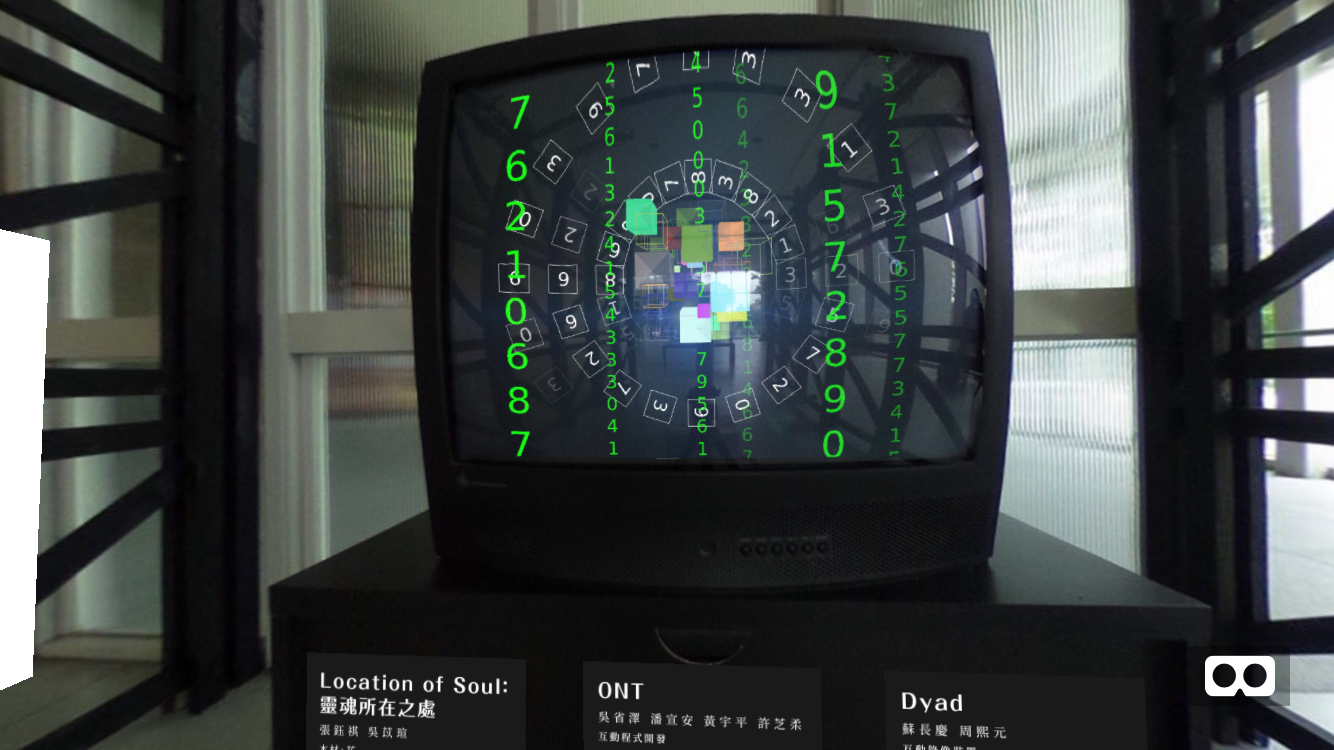
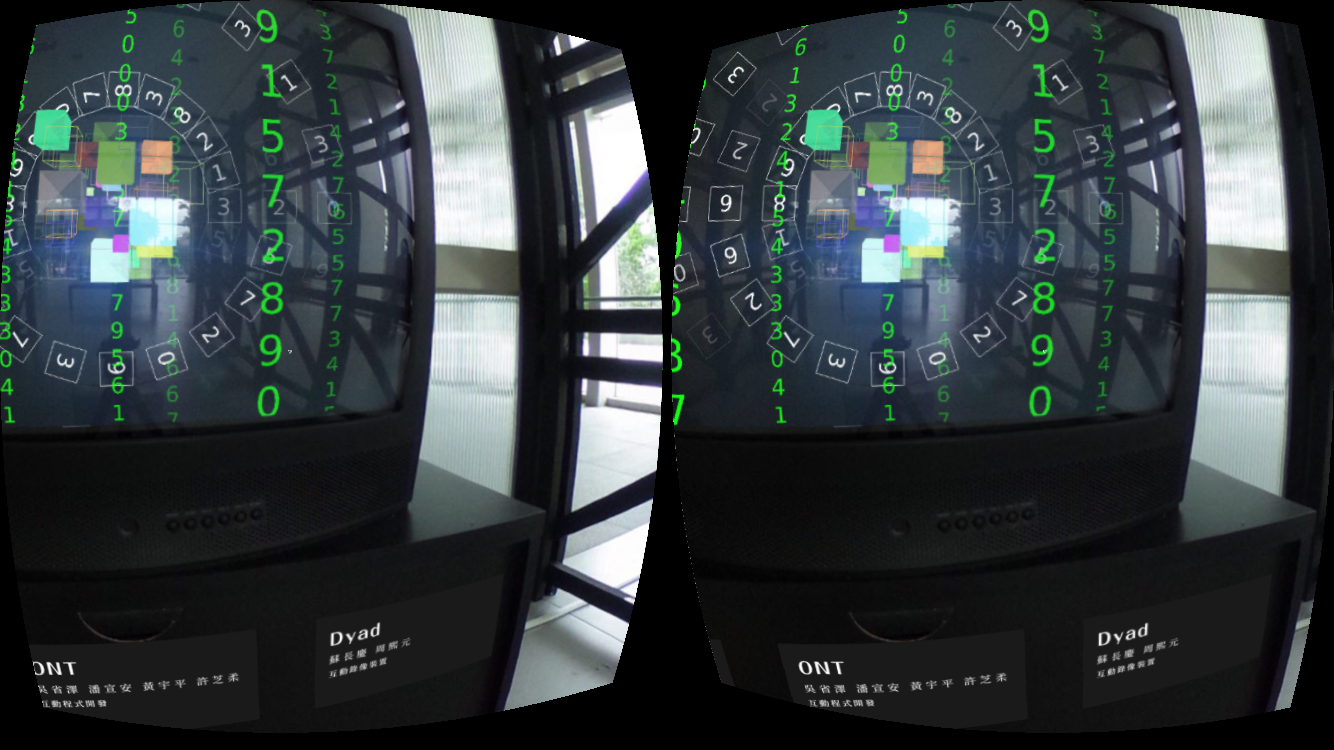
Edit project

diff --git a/_projects/speculative-ntu.md b/_projects/speculative-ntu.md
@@ -11,21 +11,40 @@ permalink: /projects/speculative-ntu/
 ---
 
 {% include image.html
-           img="home.png"
-           caption="展場虛構地圖" %}
-
-> Homo sapiens 現代智人，人屬，人科  
-> Technology 技術，科技
+           img="map.png"
+           caption="An imaginary map of the campus that were divided into three worlds, where people held different belief and ideal toward technology." %}
 
 自人類第一次拿起石器，兩百五十萬年間，人類的價值與工具內外交融，成為目前所熟知的型態。然而，對於「價值」的諸多質疑已使得現今秩序崩壞。面對未來，我們還能不能有所期待？
 
 本次《形》策展以此作為起點，想像人性與科技的三種走向 — 退化 、 平衡 、 超越 。劃分台大校園為三個極端的虛構聚落，作為科技變形的實驗場。退化的〈懼形〉中，科技成了世界的支配者，人類淪落為次等物種；平衡的〈制形〉中，社會運作受到演算法監控，追求最佳化的理想；超越的〈探形〉中，藉由科技擴增感官，分化出新的認知方式。《形》策展帶領觀者經歷三個價值場域，放下原有的信念，形塑另類的科技理想。
 
-I participated in the student tech art exhibition curation at the annual Art Festival of National Taiwan University. People in Taiwan constantly struggle with their cultural identity, thus we decided the exhibition theme not to be about how technology changes the society, but about how people holding different values and belief would transform technology in the far future. 80 students got involved and the artworks were exhibited in the campus.
+I participated in the student tech art exhibition curation at the annual Art Festival of National Taiwan University. People in Taiwan constantly struggle with their cultural identity. Inspired by Dunne and Raby's speculative exhibition [United Micro Kingdom](http://www.unitedmicrokingdoms.org/), we decided the exhibition theme not to be about how technology changes the society, but about how people holding different values and belief would transform technology in the far future.
 
-**[進入虛擬實境展場！ Enter Web VR Exhibition!](/speculative-ntu-vr)**
+We recruited students from different departments and held brainstormings. Three main themes came out: A world where humans become inferior to machines, a world where humans and data strike an optimal balance and a world where humans extend their body and knowledge to become transhumans. Through these three worlds, 80 students got involved and the artworks, including several interactive installations, were exhibited in different places in the campus.
+
+{% include image.html
+           img="sketch_1.png"
+           caption="Idea sketch of the three worlds. Version 1." %}
+
+{% include image.html
+           img="sketch_2.png"
+           caption="Idea sketch of the three worlds. Version 2." %}
+
+{% include image.html
+           img="sketch_3.png"
+           caption="Idea sketch of the three worlds. Version 3." %}
+
+## VR Exhibition
+
+I created this virtual reality (VR) experience using [A-Frame](https://aframe.io/) with 360 photos captured during the exhibition throughout four places in the campus (one for the exhibition portal and three worlds).
+
+**[進入虛擬實境展場！ Enter VR Website!](/speculative-ntu-vr)** (Best viewing on a smartphone using Google Cardboard)
 
 ---
+
+{% include image.html
+           img="home.png"
+           caption="展場虛構地圖" %}
 
 {% include image.html
            img="fear.png"
